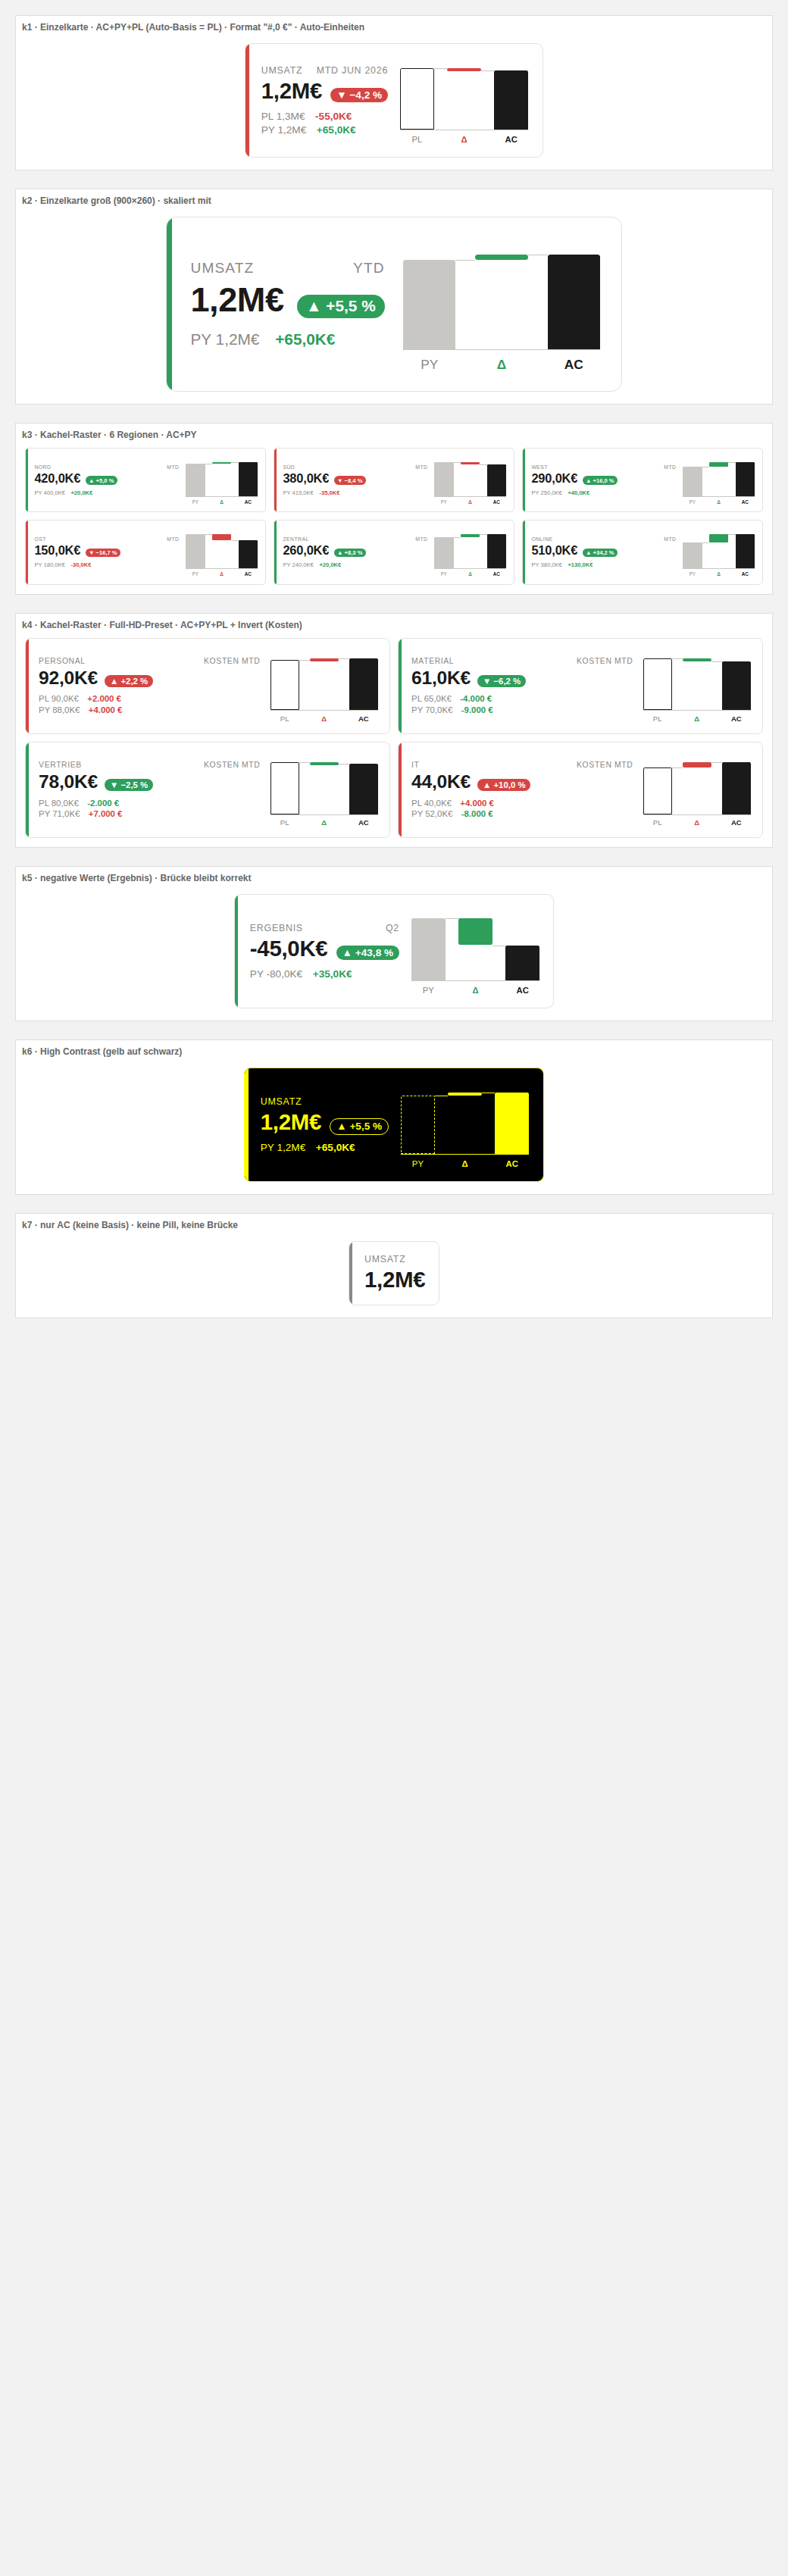
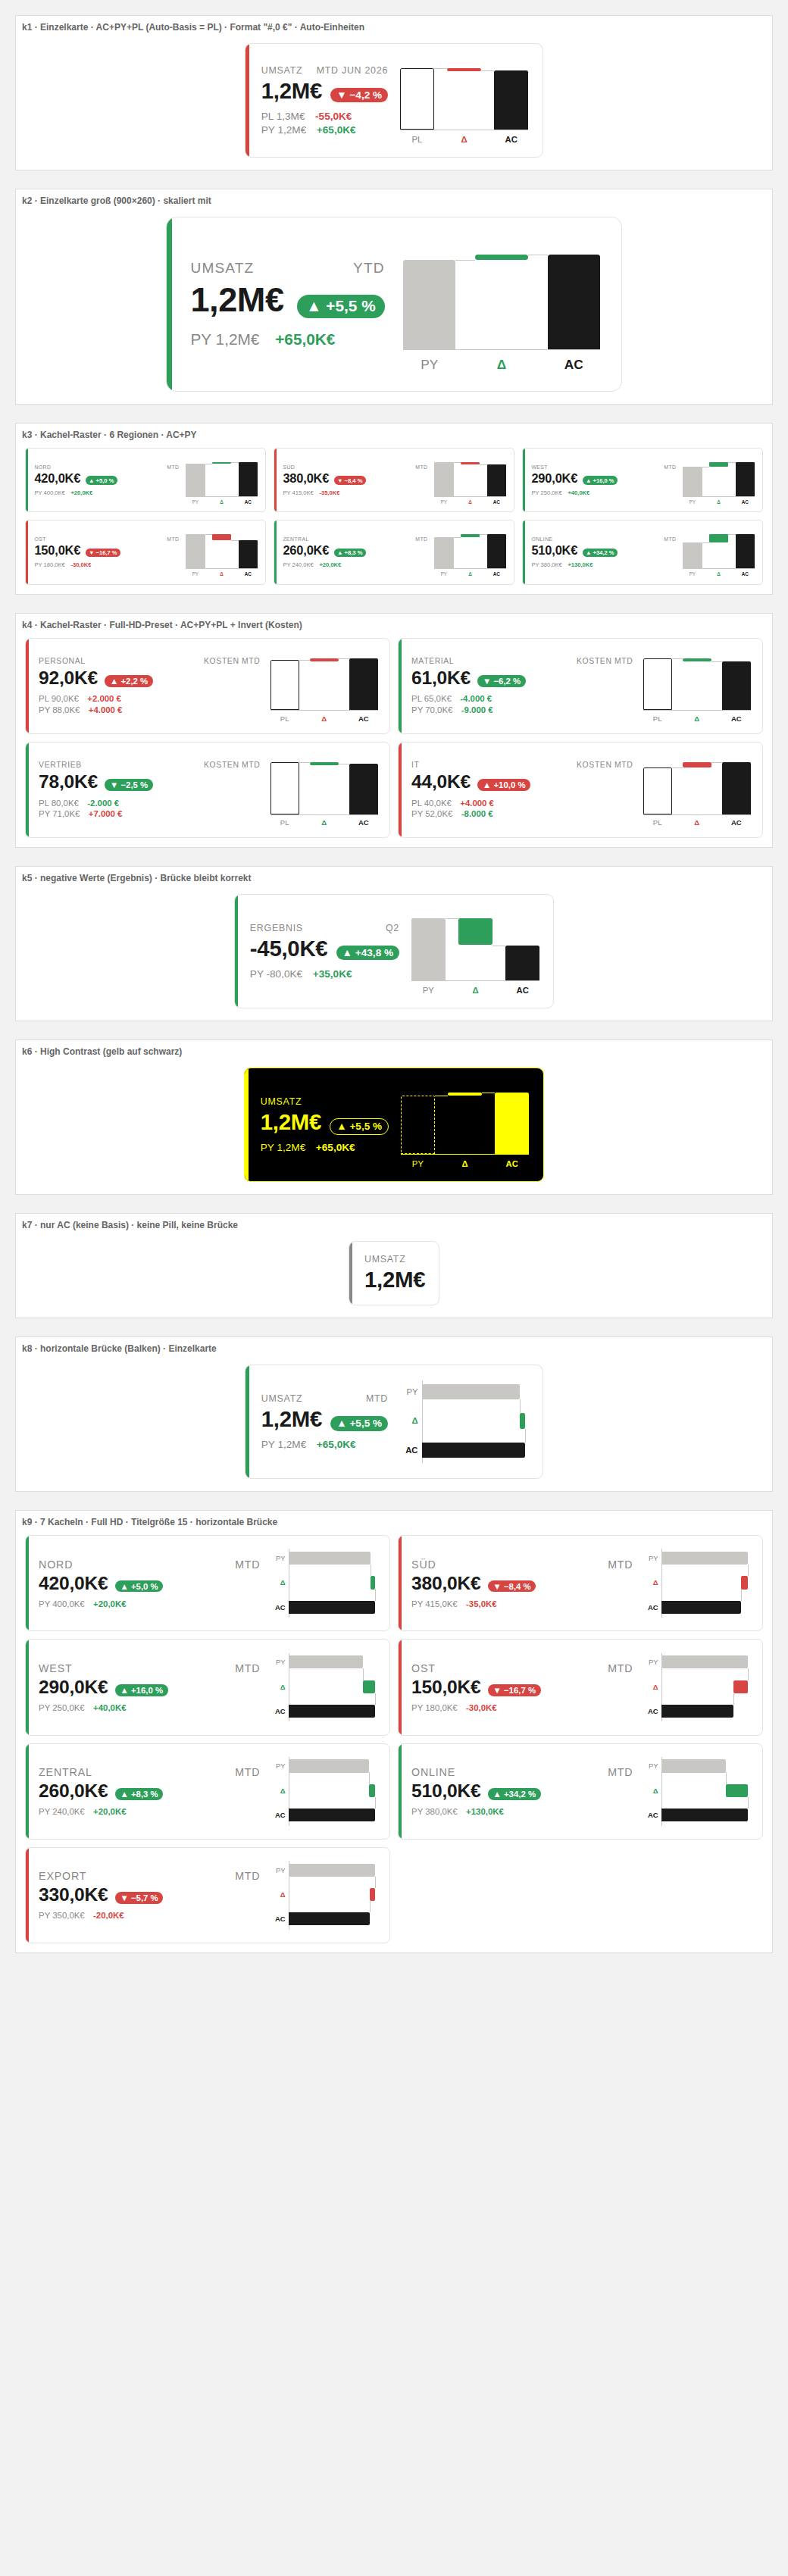
KPI Card: bridge orientation + configurable title size (v2.1.0.0)
Adds two options requested after testing v2 in Full HD grids:

- Bridge orientation (KPI card -> Bridge orientation): the mini bridge
  renders either vertical (three columns side by side, the previous
  look) or horizontal (basis/delta/AC bars below each other) - both
  IBCS-styled and negative-safe, sharing the scenario styles.
- Title size (KPI card -> Title size, 8-40): the card header (category
  name on tiles / KPI title) gets its own font size on top of the size
  preset - fixes headers being too small on Full HD dashboards with
  many tiles.

Render harness extended to 9 scenarios (horizontal bridge single card,
7-tile Full-HD grid with title size 15); build, lint and screenshots
verified.

Claude-Session: https://claude.ai/code/session_012ZcbU1D4mMF2ajfFqsZJyU

diff --git a/ibcsKpiCard/src/visual.ts b/ibcsKpiCard/src/visual.ts
@@ -46,9 +46,11 @@ interface Datum {
 
 interface CardConfig {
     title: string;
+    titleSize: number;
     periodLabel: string;
     basis: Basis;
     showBridge: boolean;
+    bridgeHorizontal: boolean;
     showSecondary: boolean;
     invert: boolean;
     good: string;
@@ -206,9 +208,11 @@ export class Visual implements IVisual {
 
         const cfg: CardConfig = {
             title: (s.displayCard.title.value || this.measureName || "KPI").trim(),
+            titleSize: Math.max(8, Math.min(40, s.displayCard.titleSize.value ?? 11)),
             periodLabel: (s.displayCard.periodLabel.value || "").trim(),
             basis,
             showBridge: s.displayCard.showBridge.value,
+            bridgeHorizontal: String(s.displayCard.bridgeOrientation.value.value) === "bars",
             showSecondary: s.displayCard.showSecondary.value && hasPl && hasPy,
             invert: s.displayCard.invert.value,
             good: hc ? ink : s.colorsCard.goodColor.value.value,
@@ -276,7 +280,7 @@ export class Visual implements IVisual {
         // header: title (category name on tiles) + period
         const head = document.createElement("div");
         head.style.cssText = `display:flex;justify-content:space-between;gap:${px(8)};` +
-            `font-size:${px(11)};letter-spacing:0.06em;text-transform:uppercase;color:${cfg.subtle};white-space:nowrap`;
+            `font-size:${px(cfg.titleSize)};letter-spacing:0.06em;text-transform:uppercase;color:${cfg.subtle};white-space:nowrap`;
         const ht = document.createElement("div");
         ht.style.cssText = "overflow:hidden;text-overflow:ellipsis";
         ht.textContent = isTile && d.name ? d.name : cfg.title;
@@ -367,19 +371,56 @@ export class Visual implements IVisual {
         return card;
     }
 
-    /** mini bridge: three columns basis → Δ → AC with connectors and a baseline */
+    /** mini bridge: basis → Δ → AC with connectors and a baseline (columns or bars) */
     private buildBridge(ac: number, basisVal: number, basisLabel: string,
         vColor: string, cfg: CardConfig, k: number): HTMLElement {
         const px = (v: number) => `${Math.round(v * k * 10) / 10}px`;
-        const W = 150, H = 104, baseY = 86, maxH = 72;
         const wrap = document.createElement("div");
-        wrap.style.cssText = `position:relative;width:${px(W)};height:${px(H)};flex-shrink:0`;
         const div = (style: string, text?: string) => {
             const el = document.createElement("div");
             el.style.cssText = "position:absolute;" + style;
             if (text !== undefined) { el.textContent = text; }
             wrap.appendChild(el);
         };
+        // IBCS scenario styles: PY solid grey, PL outlined, AC solid dark
+        const basisStyle = basisLabel === "PL"
+            ? `background:${cfg.paper};border:1.5px solid ${cfg.ink};box-sizing:border-box`
+            : `background:${cfg.hc ? cfg.paper : "#c9c7c3"};${cfg.hc ? `border:1px dashed ${cfg.ink};box-sizing:border-box` : ""}`;
+        const acBg = cfg.hc ? cfg.ink : "#1a1a1a";
+
+        if (cfg.bridgeHorizontal) {
+            // three bars below each other: basis on top, Δ floating, AC at the bottom
+            const W = 150, H = 104, x0 = 26, maxW = W - x0 - 4;
+            wrap.style.cssText = `position:relative;width:${px(W)};height:${px(H)};flex-shrink:0`;
+            const S = maxW / Math.max(Math.abs(ac), Math.abs(basisVal), 1);
+            const wB = Math.round(Math.abs(basisVal) * S);
+            const wA = Math.round(Math.abs(ac) * S);
+            const endB = x0 + wB, endA = x0 + wA;
+            const dLeft = Math.min(endB, endA);
+            const dW = Math.max(4, Math.abs(endB - endA));
+            const rowH = 18, yB = 8, yD = 42, yA = 76;
+            // baseline (vertical)
+            div(`left:${px(x0)};top:${px(4)};width:1px;height:${px(H - 8)};background:${cfg.faint}`);
+            // row labels
+            const lbl = `width:${px(x0 - 5)};text-align:right;font-size:${px(10)};line-height:${px(rowH)}`;
+            div(`left:0;top:${px(yB)};${lbl};color:${cfg.subtle}`, basisLabel);
+            div(`left:0;top:${px(yD)};${lbl};font-weight:700;color:${vColor}`, "Δ");
+            div(`left:0;top:${px(yA)};${lbl};font-weight:700;color:${cfg.ink}`, "AC");
+            // basis bar
+            div(`left:${px(x0)};top:${px(yB)};width:${px(wB)};height:${px(rowH)};${basisStyle};border-radius:0 ${px(2)} ${px(2)} 0`);
+            // connectors (vertical, at the bar ends)
+            div(`left:${px(endB)};top:${px(yB + rowH)};width:1px;height:${px(yD - yB - rowH)};background:${cfg.faint}`);
+            div(`left:${px(endA)};top:${px(yD + rowH)};width:1px;height:${px(yA - yD - rowH)};background:${cfg.faint}`);
+            // Δ float
+            div(`left:${px(dLeft)};top:${px(yD)};width:${px(dW)};height:${px(rowH)};background:${vColor};border-radius:${px(2)}`);
+            // AC bar
+            div(`left:${px(x0)};top:${px(yA)};width:${px(wA)};height:${px(rowH)};background:${acBg};border-radius:0 ${px(2)} ${px(2)} 0`);
+            return wrap;
+        }
+
+        // vertical: three columns next to each other (basis | Δ | AC)
+        const W = 150, H = 104, baseY = 86, maxH = 72;
+        wrap.style.cssText = `position:relative;width:${px(W)};height:${px(H)};flex-shrink:0`;
         // negative-safe scale over the magnitudes
         const S = maxH / Math.max(Math.abs(ac), Math.abs(basisVal), 1);
         const hB = Math.round(Math.abs(basisVal) * S);
@@ -390,10 +431,7 @@ export class Visual implements IVisual {
 
         // baseline
         div(`left:0;top:${px(baseY)};width:${px(W)};height:1px;background:${cfg.faint}`);
-        // basis column: PY solid grey / PL outlined (IBCS)
-        const basisStyle = basisLabel === "PL"
-            ? `background:${cfg.paper};border:1.5px solid ${cfg.ink};box-sizing:border-box`
-            : `background:${cfg.hc ? cfg.paper : "#c9c7c3"};${cfg.hc ? `border:1px dashed ${cfg.ink};box-sizing:border-box` : ""}`;
+        // basis column
         div(`left:0;top:${px(topB)};width:${px(40)};height:${px(hB)};${basisStyle};border-radius:${px(2)} ${px(2)} 0 0`);
         // connectors
         div(`left:${px(40)};top:${px(topB)};width:${px(15)};height:1px;background:${cfg.faint}`);
@@ -401,7 +439,7 @@ export class Visual implements IVisual {
         // Δ float
         div(`left:${px(55)};top:${px(dTop)};width:${px(40)};height:${px(dH)};background:${vColor};border-radius:${px(2)}`);
         // AC column (solid dark)
-        div(`left:${px(110)};top:${px(topA)};width:${px(40)};height:${px(hA)};background:${cfg.hc ? cfg.ink : "#1a1a1a"};border-radius:${px(2)} ${px(2)} 0 0`);
+        div(`left:${px(110)};top:${px(topA)};width:${px(40)};height:${px(hA)};background:${acBg};border-radius:${px(2)} ${px(2)} 0 0`);
         // labels
         div(`left:0;top:${px(92)};width:${px(40)};text-align:center;font-size:${px(10)};color:${cfg.subtle}`, basisLabel);
         div(`left:${px(55)};top:${px(92)};width:${px(40)};text-align:center;font-size:${px(10)};font-weight:700;color:${vColor}`, "Δ");

diff --git a/ibcsKpiCard/src/settings.ts b/ibcsKpiCard/src/settings.ts
@@ -19,6 +19,11 @@ const fontPresetItems: powerbi.IEnumMember[] = [
     { value: "presentation", displayName: "Präsentation (4K / Beamer)" }
 ];
 
+const bridgeOrientationItems: powerbi.IEnumMember[] = [
+    { value: "columns", displayName: "Vertikal (Säulen)" },
+    { value: "bars", displayName: "Horizontal (Balken)" }
+];
+
 const displayUnitsItems: powerbi.IEnumMember[] = [
     { value: "auto", displayName: "Auto" },
     { value: "none", displayName: "None" },
@@ -62,6 +67,27 @@ export class DisplayCardSettings extends FormattingSettingsCard {
         value: true
     });
 
+    bridgeOrientation = new formattingSettings.ItemDropdown({
+        name: "bridgeOrientation",
+        displayName: "Bridge orientation",
+        displayNameKey: "Display_BridgeOrientation",
+        description: "Vertikal: drei Säulen nebeneinander (Zeit-Optik). Horizontal: drei Balken untereinander (Struktur-Optik).",
+        items: bridgeOrientationItems,
+        value: bridgeOrientationItems[0]
+    });
+
+    titleSize = new formattingSettings.NumUpDown({
+        name: "titleSize",
+        displayName: "Title size",
+        displayNameKey: "Display_TitleSize",
+        description: "Schriftgröße der Karten-Überschrift (Kategorie/Titel). Wirkt zusätzlich zum Größen-Preset.",
+        value: 11,
+        options: {
+            minValue: { type: 0 /* ValidatorType.Min */, value: 8 },
+            maxValue: { type: 1 /* ValidatorType.Max */, value: 40 }
+        }
+    });
+
     showSecondary = new formattingSettings.ToggleSwitch({
         name: "showSecondary",
         displayName: "Second reference row",
@@ -94,8 +120,8 @@ export class DisplayCardSettings extends FormattingSettingsCard {
     displayName: string = "KPI card";
     displayNameKey: string = "Card_Display";
     slices: Array<FormattingSettingsSlice> = [
-        this.title, this.periodLabel, this.comparisonMode,
-        this.showBridge, this.showSecondary, this.invert, this.minTileWidth
+        this.title, this.titleSize, this.periodLabel, this.comparisonMode,
+        this.showBridge, this.bridgeOrientation, this.showSecondary, this.invert, this.minTileWidth
     ];
 }
 

diff --git a/ibcsKpiCard/test/test.html b/ibcsKpiCard/test/test.html
@@ -17,6 +17,8 @@
 <div class="case"><h4>k5 · negative Werte (Ergebnis) · Brücke bleibt korrekt</h4><div class="stage" id="k5" style="width:520px;height:170px"></div></div>
 <div class="case"><h4>k6 · High Contrast (gelb auf schwarz)</h4><div class="stage" id="k6" style="width:520px;height:170px;background:#000"></div></div>
 <div class="case"><h4>k7 · nur AC (keine Basis) · keine Pill, keine Brücke</h4><div class="stage" id="k7" style="width:520px;height:170px"></div></div>
+<div class="case"><h4>k8 · horizontale Brücke (Balken) · Einzelkarte</h4><div class="stage" id="k8" style="width:520px;height:170px"></div></div>
+<div class="case"><h4>k9 · 7 Kacheln · Full HD · Titelgröße 15 · horizontale Brücke</h4><div class="stage" id="k9" style="width:1400px;height:520px"></div></div>
 <script src="visual.bundle.js"></script>
 <script>
 const Visual = IbcsKpiCard.Visual;
@@ -69,6 +71,14 @@ run("k6", dv([col("ac", [1245000], "#,0 €"), col("py", [1180000], "#,0 €")],
   { display: { title: "Umsatz" } }), 520, 170, true);
 
 run("k7", dv([col("ac", [1245000], "#,0 €")], { display: { title: "Umsatz" } }), 520, 170);
+
+run("k8", dv([col("ac", [1245000], "#,0 €"), col("py", [1180000], "#,0 €")],
+  { display: { title: "Umsatz", periodLabel: "MTD", bridgeOrientation: "bars" } }), 520, 170);
+
+run("k9", dv([col("ac", [420000, 380000, 290000, 150000, 260000, 510000, 330000], "#,0 €"),
+    col("py", [400000, 415000, 250000, 180000, 240000, 380000, 350000], "#,0 €")],
+  { display: { periodLabel: "MTD", titleSize: 15, bridgeOrientation: "bars" }, labels: { fontPreset: "fullhd" } },
+  ["Nord", "Süd", "West", "Ost", "Zentral", "Online", "Export"]), 1400, 520);
 </script>
 </body>
 </html>

diff --git a/ibcsKpiCard/CHANGELOG.md b/ibcsKpiCard/CHANGELOG.md
@@ -1,5 +1,16 @@
 # Changelog · IBCS KPI Card
 
+## 2.1.0.0 (2026-07-08)
+
+- **Brücken-Ausrichtung** (KPI card → Bridge orientation): die Mini-Brücke
+  wahlweise vertikal (drei Säulen nebeneinander, Zeit-Optik) oder
+  **horizontal** (drei Balken untereinander, Struktur-Optik) — beide
+  IBCS-konform (PY grau, PL Outline, AC dunkel), beide negativ-sicher.
+- **Titelgröße** (KPI card → Title size): Schriftgröße der Karten-Überschrift
+  (Kategorie/Titel) separat einstellbar (8–40) — behebt zu kleine
+  Kachel-Titel bei Full HD mit vielen Kacheln; wirkt zusätzlich zum
+  Größen-Preset.
+
 ## 2.0.0.0 (2026-07-08)
 
 Kompletter Neubau des v1.1-Prototyps als Quellcode-Projekt im Repo

diff --git a/ibcsKpiCard/README.md b/ibcsKpiCard/README.md
@@ -12,7 +12,8 @@ Schwerpunkte **Lesbarkeit** und **Flexibilität**:
 
 - **Mini-Brücke** Basis → Δ → AC in IBCS-Notation: PY grau, **PL als Outline**,
   AC solide dunkel — abschaltbar (KPI card → Mini bridge), negativ-sicher
-  (auch Ergebnis-KPIs unter null brechen das Layout nicht mehr)
+  (auch Ergebnis-KPIs unter null brechen das Layout nicht mehr).
+  **Ausrichtung wählbar**: vertikal (Säulen) oder horizontal (Balken)
 - **Variance basis Auto/PY/PL**: die Δ-Pill, die Akzentleiste und die Brücke
   rechnen gegen PL, wenn vorhanden (Auto), sonst PY — umstellbar. Die jeweils
   andere Basis erscheint als **zweite Referenzzeile** (abschaltbar)
@@ -43,8 +44,9 @@ Schwerpunkte **Lesbarkeit** und **Flexibilität**:
 
 ## Formatbereich
 
-- **KPI card**: Titel (leer = Measure-Name), Zeitraum-Label, Variance basis
-  (Auto/PY/PL), Mini bridge an/aus, zweite Referenzzeile an/aus, Invert,
+- **KPI card**: Titel (leer = Measure-Name), **Titelgröße**, Zeitraum-Label,
+  Variance basis (Auto/PY/PL), Mini bridge an/aus + **Ausrichtung
+  vertikal/horizontal**, zweite Referenzzeile an/aus, Invert,
   Mindest-Kachelbreite
 - **Number format**: Größen-Preset (Kompakt/Full HD/Präsentation),
   Dezimalstellen, Einheiten (Auto/k/M/B)